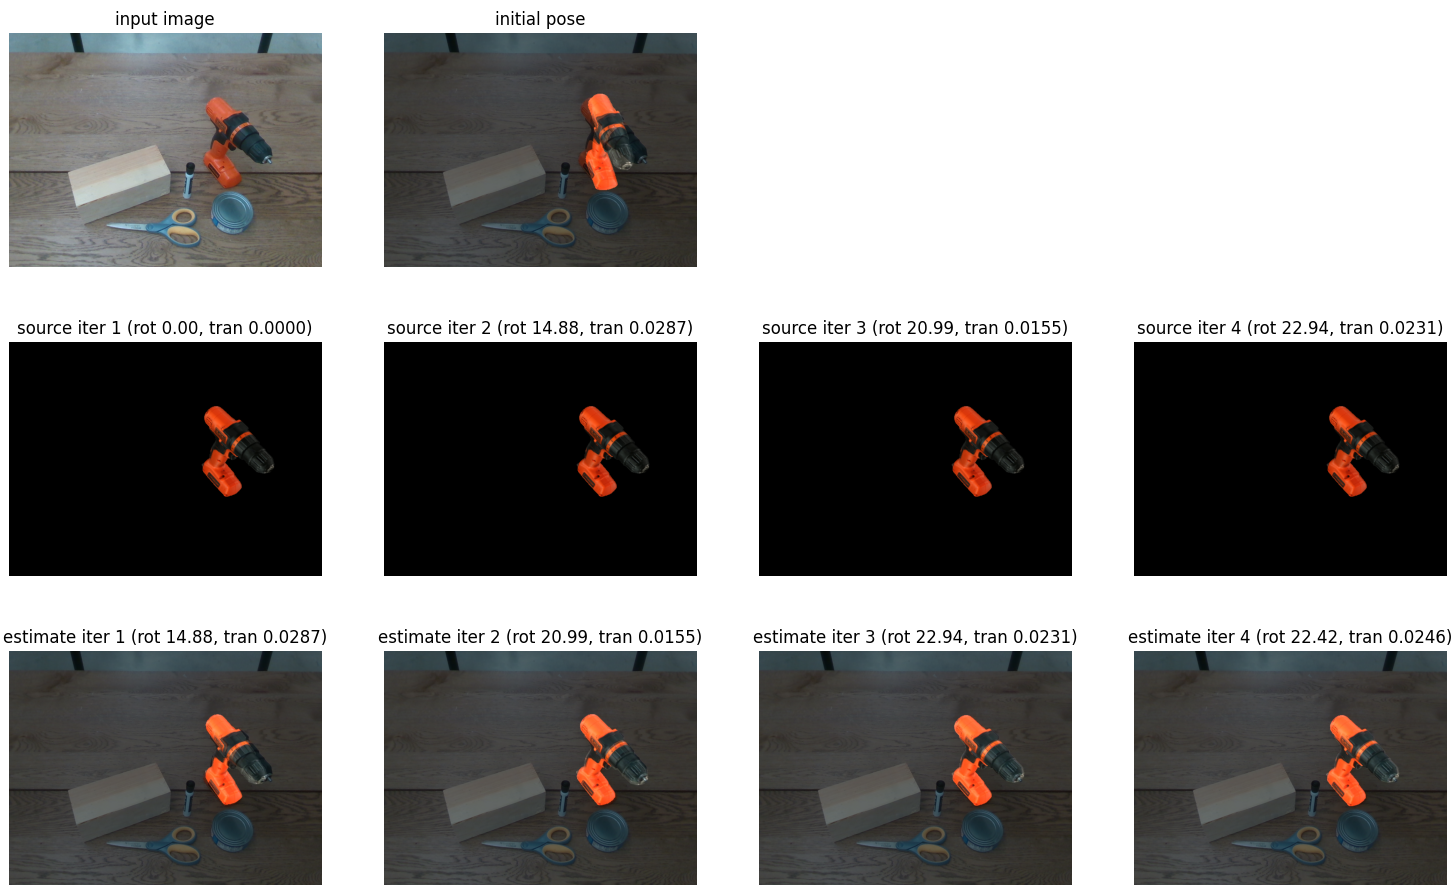
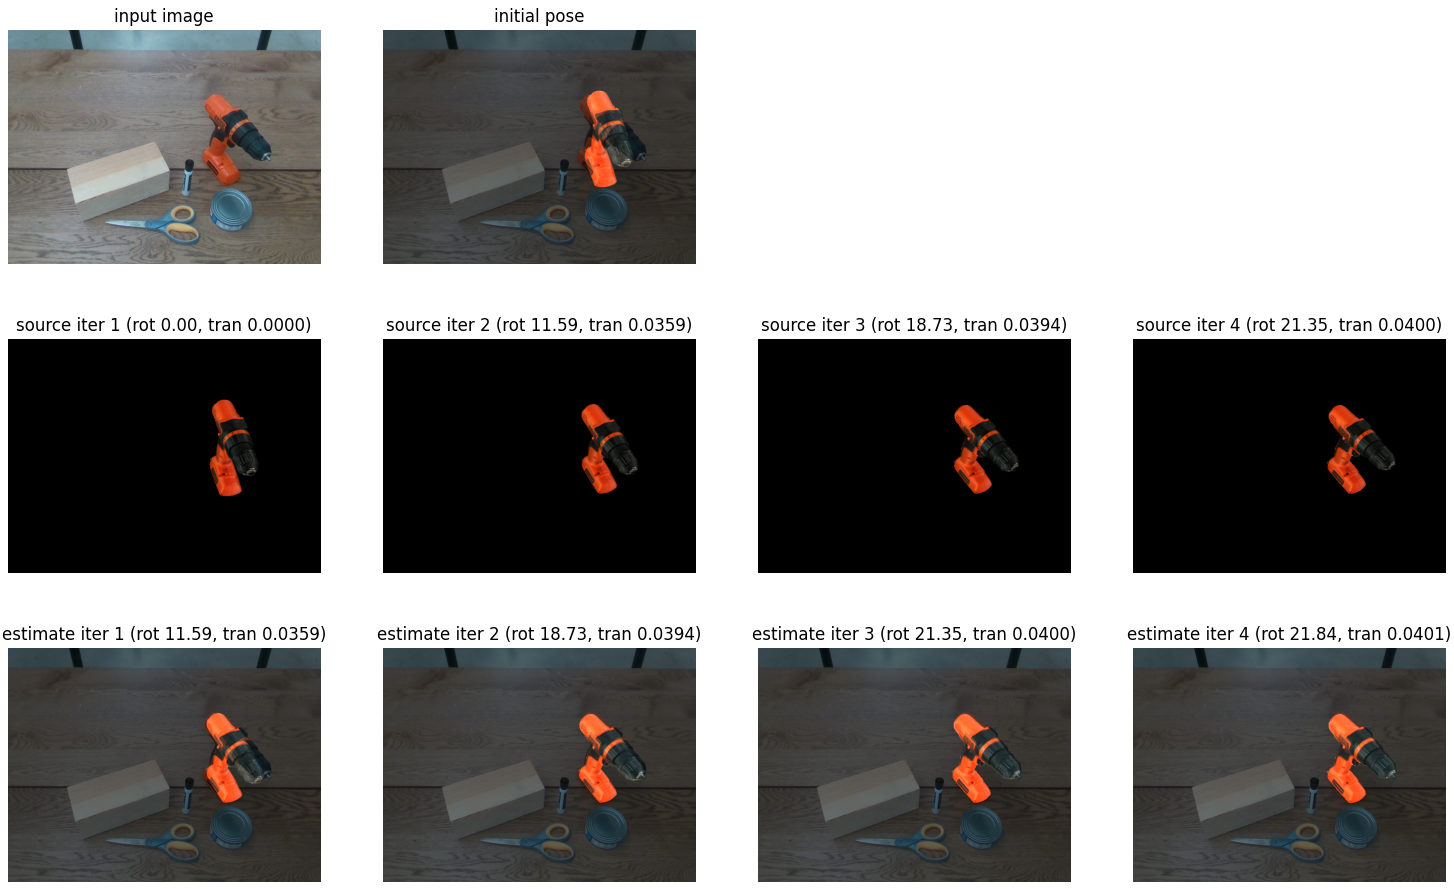
fix vis bug

diff --git a/lib/fcn/train_test.py b/lib/fcn/train_test.py
@@ -15,6 +15,7 @@ import cv2
 import scipy
 import threading
 import cupy
+import copy
 
 from fcn.config import cfg
 from fcn.multiscaleloss import multiscaleEPE, realEPE
@@ -734,7 +735,7 @@ def test(test_loader, background_loader, network, output_dir):
                 weights_rot, extents, points, affine_matrices, zoom_factor, vdata = \
                 process_sample(sample, poses_est, test_data)
             
-            vis_data.append(vdata)
+            vis_data.append(copy.deepcopy(vdata))
             if j == 0:
                 poses_init = vdata['pose_src']
 
@@ -853,7 +854,7 @@ def test_image(network, dataset, im_color, im_depth, poses_est, test_data):
             weights_rot, extents, points, affine_matrices, \
             zoom_factor, vdata = process_sample(sample, poses_est, test_data)
 
-        vis_data.append(vdata)
+        vis_data.append(copy.deepcopy(vdata))
         if j == 0:
             poses_init = vdata['pose_src']
 
